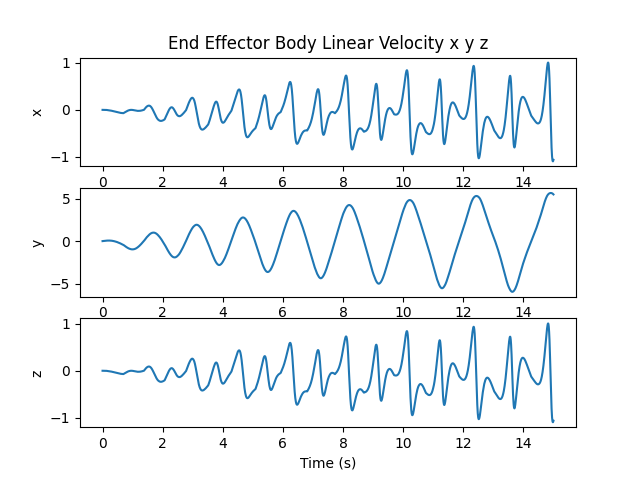
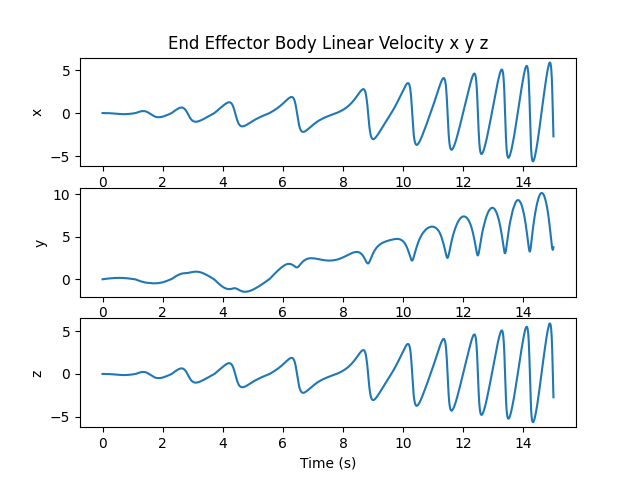
Model2

diff --git a/Problem_4.py b/Problem_4.py
@@ -9,11 +9,11 @@ import time
 def sgn(x):
     return np.piecewise(x, [x < 0, x >= 0], [-1, 1])
 
-xml_path = "Furuta_Model.xml"
+xml_path = "Furuta_Model2.xml"
 dirname = os.path.dirname(__file__)
 abs_path = os.path.join(dirname, xml_path)
 
-model_name = 'Furuta_Model.txt'
+model_name = 'Furuta_Model2.txt'
 model_path = os.path.join(dirname, model_name)
 
 # Load the model and create simulation data

diff --git a/Problems_3.py b/Problems_3.py
@@ -5,11 +5,11 @@ import os
 from math import pi
 from spatialmath.base import skew, tr2angvec
 
-xml_path = "Furuta_Model.xml"
+xml_path = "Furuta_Model2.xml"
 dirname = os.path.dirname(__file__)
 abs_path = os.path.join(dirname, xml_path)
 
-model_name = 'Furuta_Model.txt'
+model_name = 'Furuta_Model2.txt'
 model_path = os.path.join(dirname, model_name)
 
 # Load the model and create simulation data
